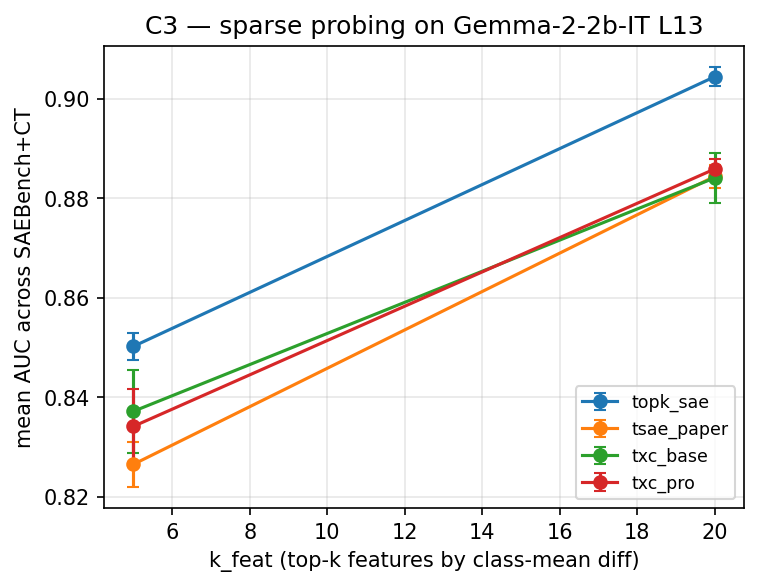
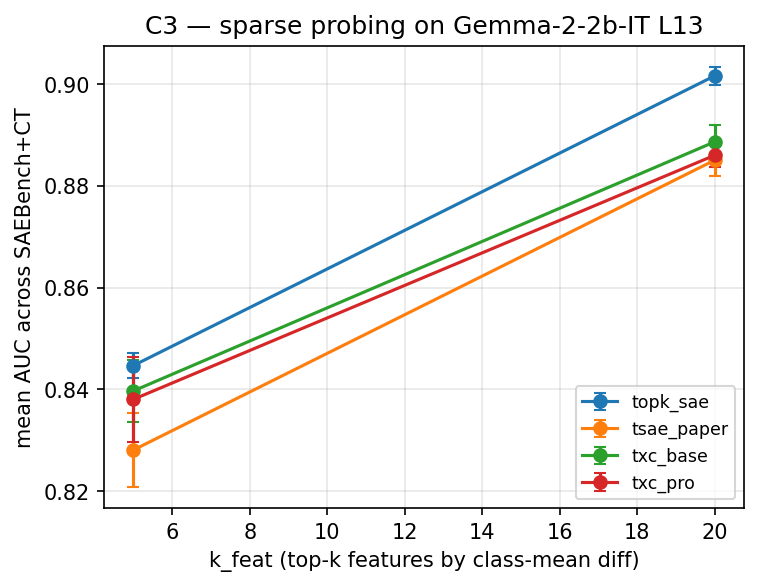
Agent NLP: C3 v1.1.0 headline (24 cells with Phase 7 padding fix)
24 new EVAL_PROTOCOL_VERSION=1.1.0 cells in leaderboard alongside
the 24 v1.0.0 rows. analysis.py now filters to v1.1.0 only for the
headline; v1.0.0 stays on disk for the old-vs-new comparison.

Headline mean_AUC over SAEBench+CT (n=38, 3 seeds):

  arch        k=5                     k=20
  topk_sae    0.8447 ± 0.002         0.9016 ± 0.002
  txc_base    0.8397 ± 0.006         0.8887 ± 0.003
  txc_pro     0.8381 ± 0.008         0.8860 ± 0.002
  tsae_paper  0.8281 ± 0.007         0.8851 ± 0.003

vs v1.0.0:
  topk_sae:   k=5  0.8503 → 0.8447  (Δ -0.006)
              k=20 0.9044 → 0.9016  (Δ -0.003)
  tsae_paper: k=5  0.8266 → 0.8281  (Δ +0.001)
              k=20 0.8844 → 0.8851  (Δ +0.001)
  txc_base:   k=5  0.8372 → 0.8397  (Δ +0.003)
              k=20 0.8841 → 0.8887  (Δ +0.005)
  txc_pro:    k=5  0.8342 → 0.8381  (Δ +0.004)
              k=20 0.8859 → 0.8860  (Δ +0.0001)

Pattern: TopK-SAE went DOWN slightly, TXC variants went UP — the gap
narrowed but TopK-SAE still leads at both sparsities. The C3 honest
negative still holds: TXC variants don't beat TopK-SAE on
SAEBench+CT probing.

Per-task investigation: the fix did NOT rescue winogrande/wsc as we
hoped. Their AUCs are still 0.40-0.50 across all archs both before
AND after the fix. Reading: per-token mean-pool aggregation can't
capture cross-token coreference; tasks that need multi-token
reasoning are intrinsically hard for this aggregation regardless
of padding handling. The mean-AUC shifts above come from OTHER
[…]

diff --git a/purified/experiments/c3_probing/analysis.py b/purified/experiments/c3_probing/analysis.py
@@ -51,11 +51,22 @@ def _placeholder_markdown(reason: str) -> str:
     )
 
 
+HEADLINE_EVAL_PROTOCOL_VERSION = "1.1.0"   # Phase 7 padding fix; old 1.0.0
+                                            # rows are kept on disk for
+                                            # comparison but excluded from
+                                            # the headline aggregate.
+
+
 def run_analysis() -> AnalysisResult:
     rows = query_leaderboard(component=COMPONENT)
-    # Filter out smoke rows — they use synthetic labels and are not
-    # paper-relevant. Keep them on disk for traceability of pipeline runs.
-    real_rows = [r for r in rows if not r.eval_cfg.get("smoke", False)]
+    # Filter out smoke rows + non-headline protocol versions. Old 1.0.0
+    # rows used right-padded tail-S which corrupts winogrande/wsc; v1.1.0
+    # is the headline (Phase 7 padding fix).
+    real_rows = [
+        r for r in rows
+        if not r.eval_cfg.get("smoke", False)
+        and r.eval_protocol_version == HEADLINE_EVAL_PROTOCOL_VERSION
+    ]
 
     if not real_rows:
         n_smoke = len(rows)

diff --git a/purified/docs/components/c3.md b/purified/docs/components/c3.md
@@ -86,14 +86,14 @@ Task suite: SAEBench+CT (n=38). Subject: `gemma_2_2b_it_l13_fineweb_24k128`. Agg
 
 | arch | k_feat | n_seeds | mean_AUC | σ_seeds | σ_tasks (mean) | mean_acc |
 |---|---:|---:|---:|---:|---:|---:|
-| `topk_sae` | 5 | 3 | 0.8503 | 0.0028 | 0.1282 | 0.7958 |
-| `topk_sae` | 20 | 3 | 0.9044 | 0.0019 | 0.1187 | 0.8459 |
-| `tsae_paper` | 5 | 3 | 0.8266 | 0.0046 | 0.1316 | 0.7708 |
-| `tsae_paper` | 20 | 3 | 0.8844 | 0.0024 | 0.1343 | 0.8233 |
-| `txc_base` | 5 | 3 | 0.8372 | 0.0083 | 0.1360 | 0.7794 |
-| `txc_base` | 20 | 3 | 0.8841 | 0.0050 | 0.1387 | 0.8260 |
-| `txc_pro` | 5 | 3 | 0.8342 | 0.0074 | 0.1386 | 0.7788 |
-| `txc_pro` | 20 | 3 | 0.8859 | 0.0020 | 0.1405 | 0.8283 |
+| `topk_sae` | 5 | 3 | 0.8447 | 0.0024 | 0.1317 | 0.7933 |
+| `topk_sae` | 20 | 3 | 0.9016 | 0.0017 | 0.1245 | 0.8439 |
+| `tsae_paper` | 5 | 3 | 0.8281 | 0.0073 | 0.1328 | 0.7725 |
+| `tsae_paper` | 20 | 3 | 0.8851 | 0.0031 | 0.1349 | 0.8251 |
+| `txc_base` | 5 | 3 | 0.8397 | 0.0061 | 0.1317 | 0.7840 |
+| `txc_base` | 20 | 3 | 0.8887 | 0.0032 | 0.1353 | 0.8308 |
+| `txc_pro` | 5 | 3 | 0.8381 | 0.0084 | 0.1344 | 0.7827 |
+| `txc_pro` | 20 | 3 | 0.8860 | 0.0023 | 0.1409 | 0.8281 |
 
 ![AUC by k_feat](../../experiments/c3_probing/plots/auc_by_k.png)
 <!-- END AUTO-RESULTS -->
